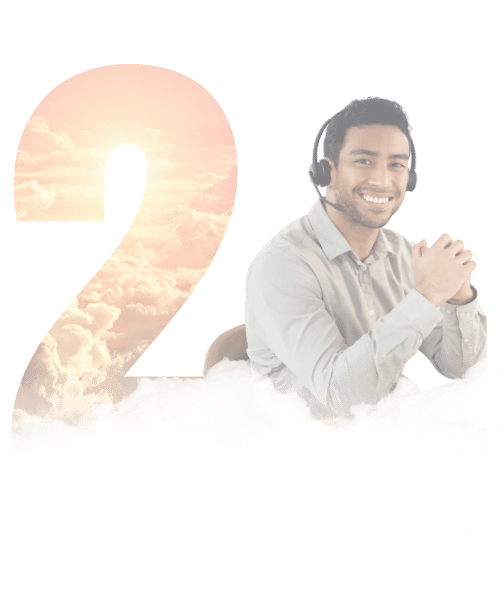
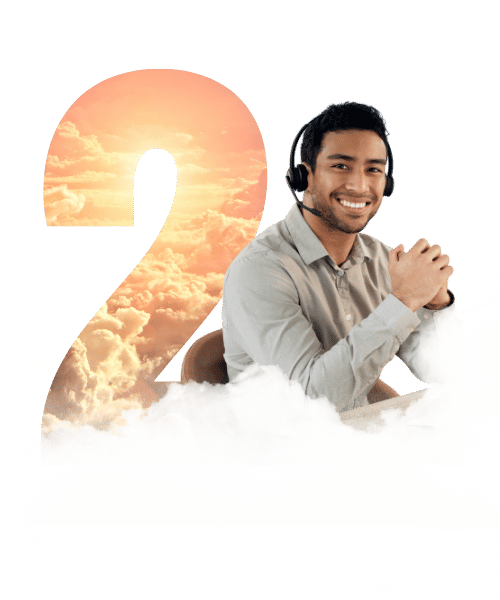
chnage about imges

diff --git a/src/components/AboutPageContent.tsx b/src/components/AboutPageContent.tsx
@@ -75,7 +75,7 @@ export default function AboutPageContent() {
         <section className="flex flex-col justify-center w-full min-h-screen mx-auto">
           <main className="flex items-center flex-wrap-reverse justify-around">
             {" "}
-            <div className="w-[400px] xl:w-[600px] h-[500px] xl:h-[600px] bg-[url('/img/aboutPrice.png')] opacity-60 bg-cover bg-center"></div>
+            <div className="w-[400px] xl:w-[600px] h-[500px] xl:h-[600px] bg-[url('/img/aboutPrice.png')] bg-cover bg-center"></div>
             <ul className="max-w-lg lg:text-xl  lg:h-[600px] py-6 lg:py-0 flex flex-col gap-10">
               <li>
                 <h2 className="text-xl max-w-3xl  font-semibold tracking-widest md:leading-20 sm:text-3xl 2xl:text-5xl  mb-6">
